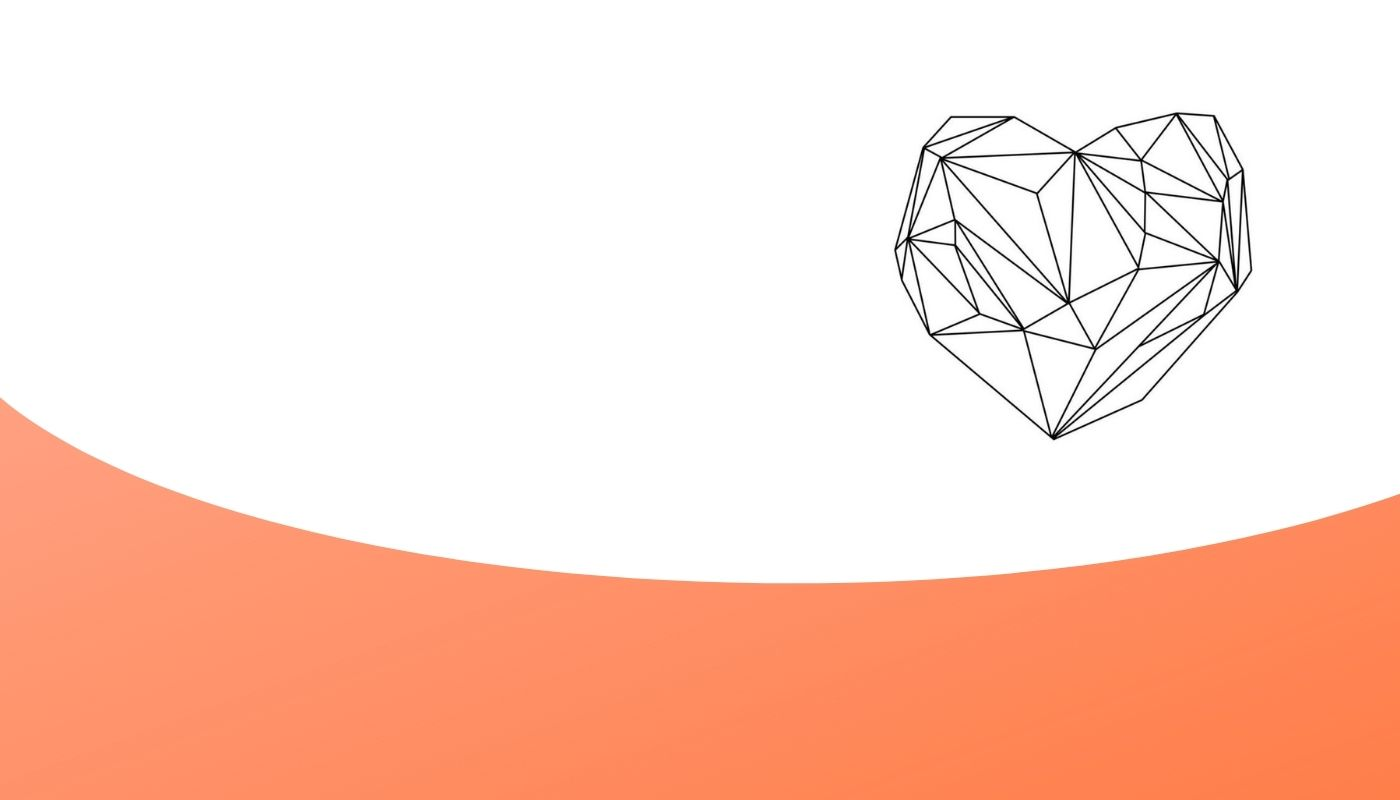
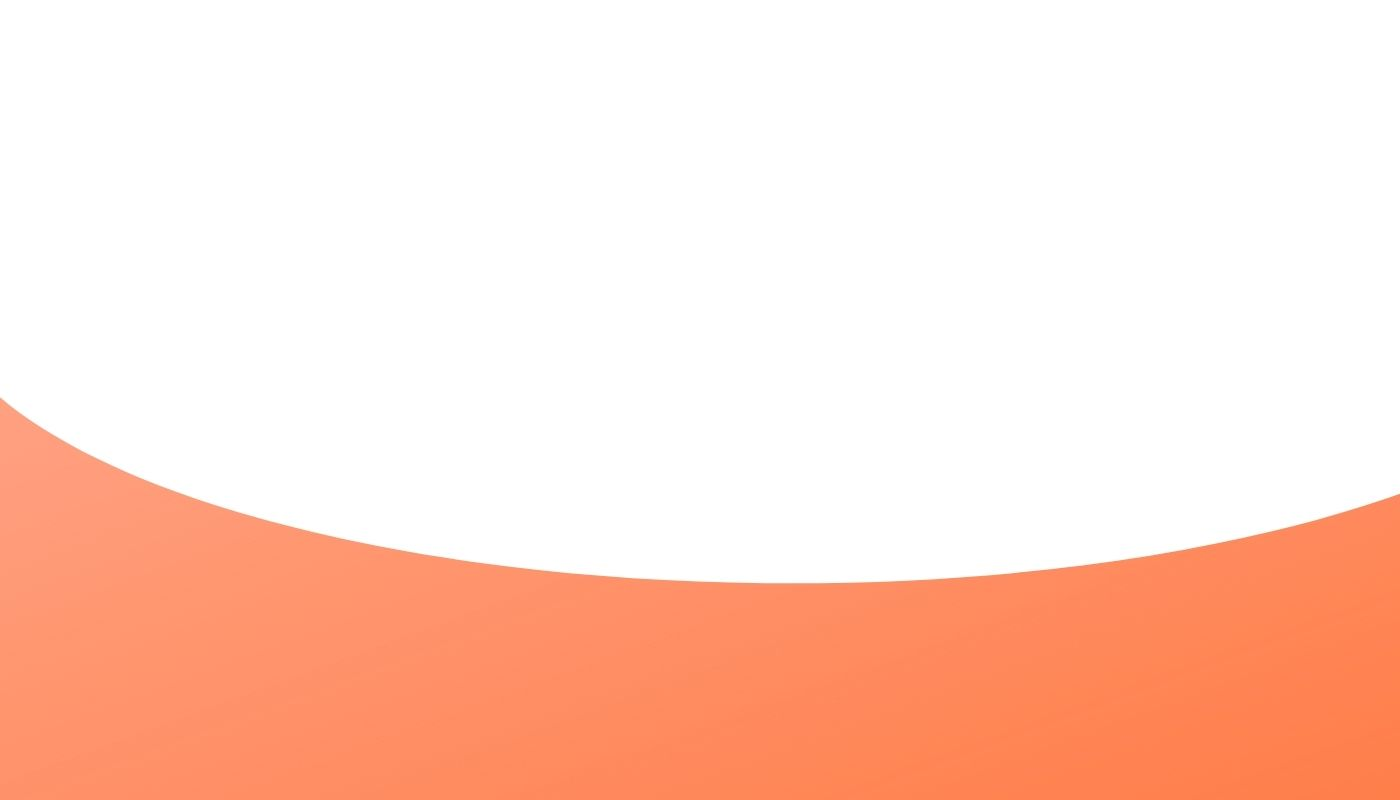
Replace hero image

Changed region(s): [[0.645, 0.125, 0.8907, 0.5625]]

diff --git a/index.html b/index.html
@@ -121,6 +121,9 @@
 
       </div>
     </article>
+    <!-- <article class="home-img">
+      <img src="assets/images/geometric-heart.png" alt="geometric-heart" />
+    </article> -->
   </section>
 
  <!-- About us -->
